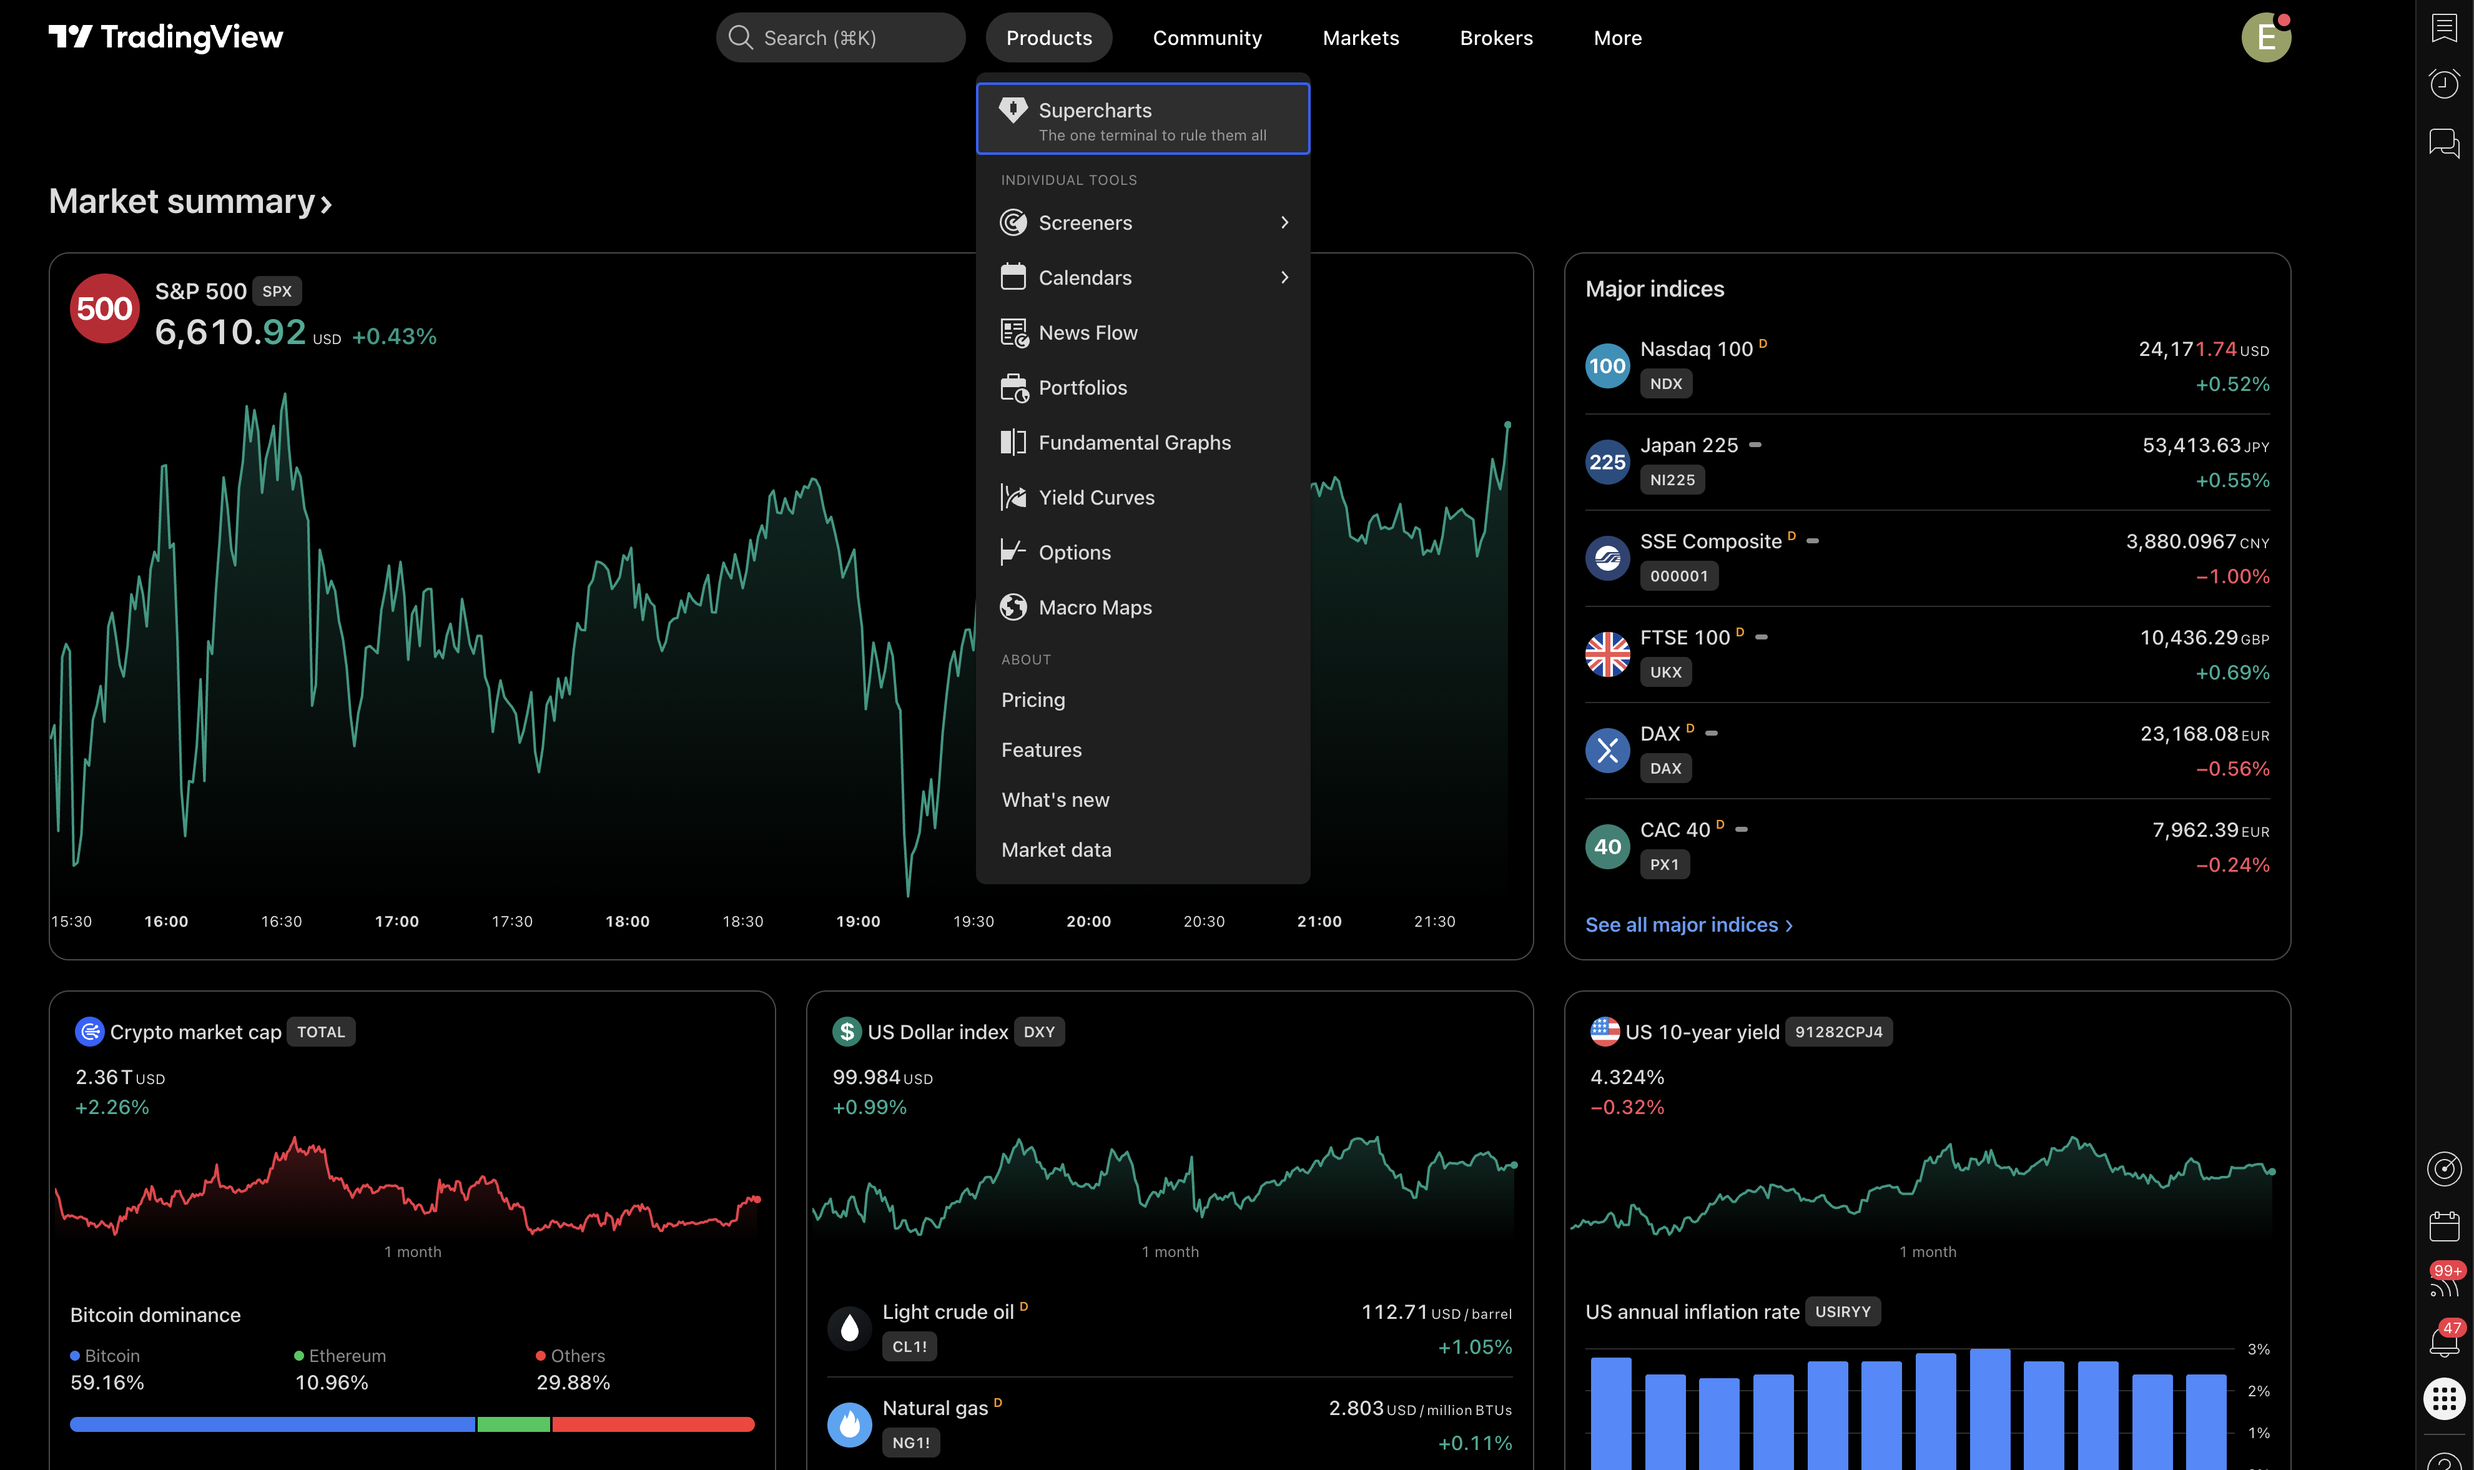
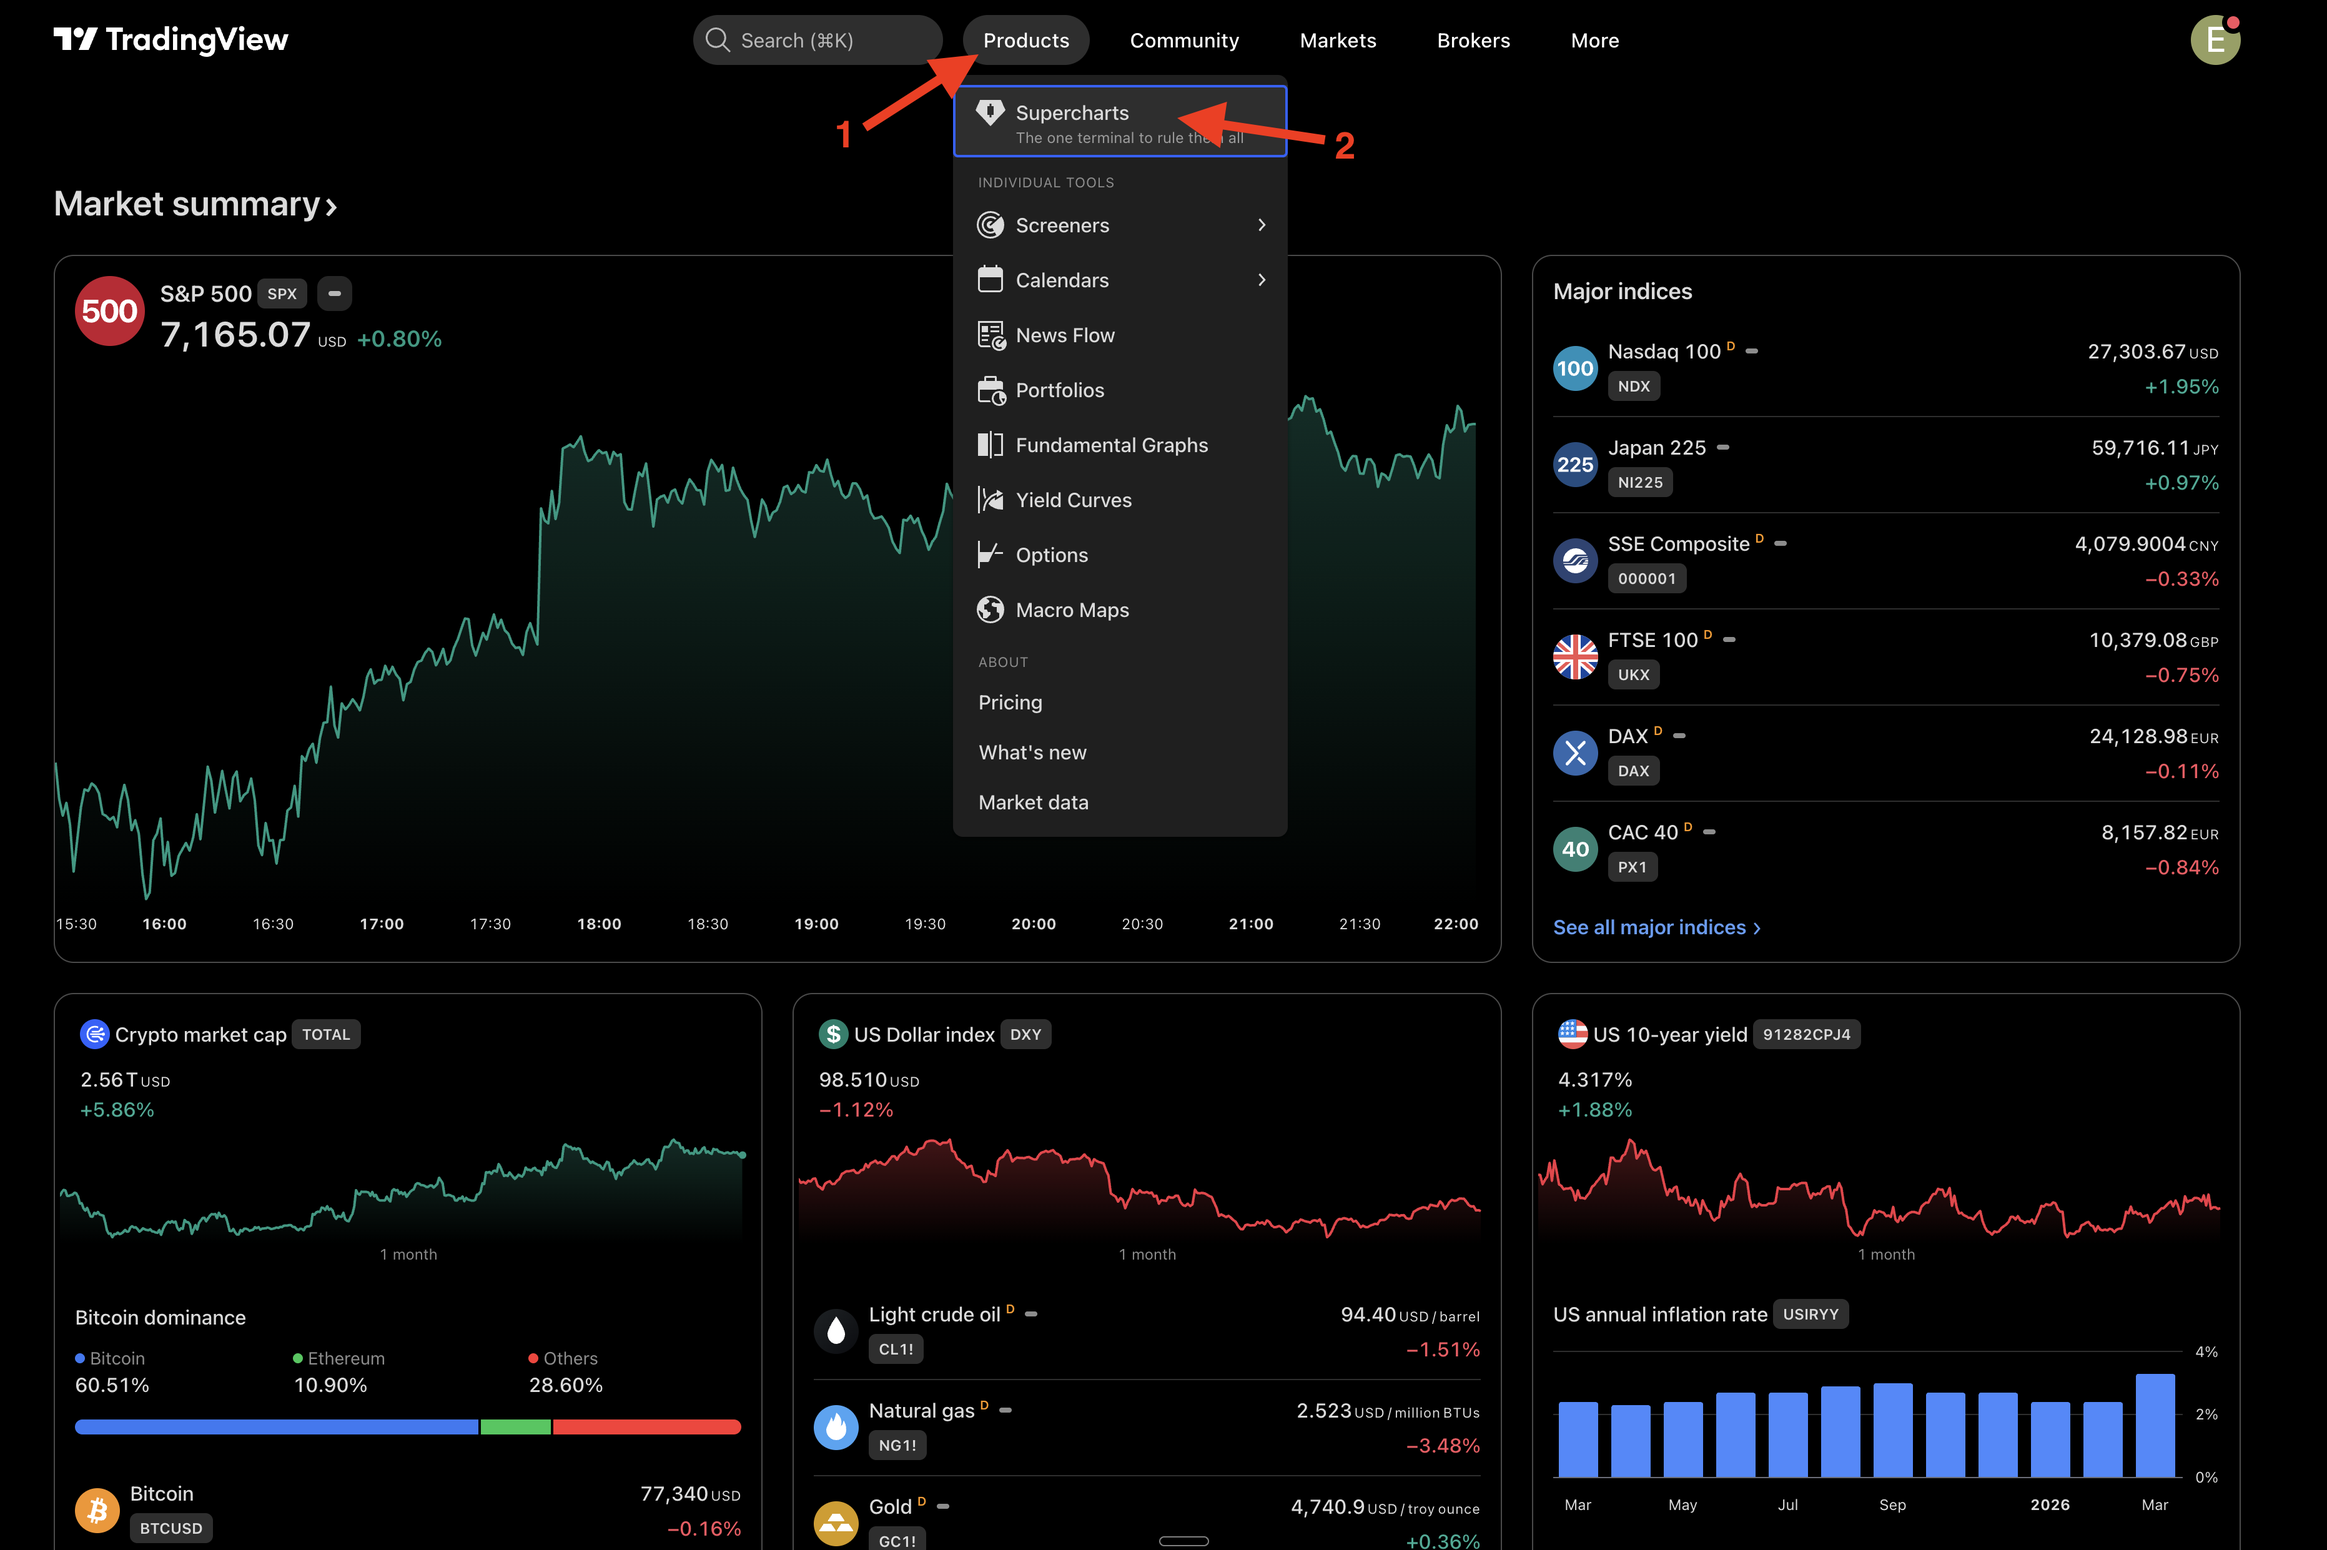
feat: rewrite install guide with screenshots, sub-steps and lightbox
- Replace placeholder install guide with real TradingView walkthrough
  (4 steps: open Supercharts, add indicator, configure, start trading)
  in EN/FR/ES/DE
- Add numbered sub-steps under each screenshot, matching arrow numbers
- Click-to-zoom lightbox on guide step images (mirrors live performance)
- Pro tip on risk management for the final step
- Remove decorative thumbnails above titles on guides list and videos pages
- Drop now-unused chart-placeholder/trendrider images and install icon

diff --git a/components/guides/guide-step-image.tsx b/components/guides/guide-step-image.tsx
@@ -1,0 +1,79 @@
+"use client";
+
+import Image from "next/image";
+import { useEffect, useState } from "react";
+
+interface GuideStepImageProps {
+  src: string;
+  alt: string;
+  closeLabel?: string;
+}
+
+export function GuideStepImage({
+  src,
+  alt,
+  closeLabel = "Close (ESC)",
+}: GuideStepImageProps) {
+  const [open, setOpen] = useState(false);
+
+  useEffect(() => {
+    if (!open) return;
+    const onKey = (e: KeyboardEvent) => {
+      if (e.key === "Escape") setOpen(false);
+    };
+    window.addEventListener("keydown", onKey);
+    return () => window.removeEventListener("keydown", onKey);
+  }, [open]);
+
+  return (
+    <>
+      <button
+        type="button"
+        onClick={() => setOpen(true)}
+        className="group block w-full overflow-hidden rounded-xl border border-zinc-800 bg-zinc-950 transition-all hover:border-zinc-600 hover:shadow-lg hover:shadow-blue-500/5"
+        aria-label={alt}
+      >
+        <Image
+          src={src}
+          alt={alt}
+          width={1600}
+          height={900}
+          className="w-full h-auto object-contain transition-transform group-hover:scale-[1.01]"
+        />
+      </button>
+
+      {open && (
+        <div
+          className="fixed inset-0 z-50 flex items-center justify-center bg-black/80 backdrop-blur-sm p-4"
+          onClick={() => setOpen(false)}
+          role="dialog"
+          aria-modal="true"
+          aria-label={alt}
+        >
+          <div className="relative max-w-6xl w-full max-h-[90vh]">
+            <div className="absolute -top-10 left-0 right-0 flex items-center justify-between">
+              <span className="text-sm md:text-base font-medium text-white truncate pr-4">
+                {alt}
+              </span>
+              <button
+                type="button"
+                onClick={() => setOpen(false)}
+                className="text-zinc-400 hover:text-white text-sm shrink-0"
+              >
+                {closeLabel}
+              </button>
+            </div>
+            <Image
+              src={src}
+              alt={alt}
+              width={1920}
+              height={1080}
+              className="rounded-lg w-full h-auto max-h-[85vh] object-contain"
+              priority
+            />
+          </div>
+        </div>
+      )}
+    </>
+  );
+}

diff --git a/components/guides/guide-placeholder-data.ts b/components/guides/guide-placeholder-data.ts
@@ -1,8 +1,9 @@
 export interface PlaceholderStep {
   stepTitle: string;
-  stepContent: string;
+  stepContent?: string;
   stepTip?: string;
   stepImage?: string;
+  subSteps?: string[];
 }
 
 export interface PlaceholderGuide {
@@ -15,9 +16,17 @@ export interface PlaceholderGuide {
   steps: PlaceholderStep[];
 }
 
-export function getPlaceholderGuides(
-  t: (key: string) => string,
-): PlaceholderGuide[] {
+type Translator = (key: string) => string;
+
+function buildSubSteps(
+  t: Translator,
+  baseKey: string,
+  count: number,
+): string[] {
+  return Array.from({ length: count }, (_, i) => t(`${baseKey}.${i}`));
+}
+
+export function getPlaceholderGuides(t: Translator): PlaceholderGuide[] {
   return [
     {
       title: t("placeholder.guide1.title"),
@@ -31,27 +40,25 @@ export function getPlaceholderGuides(
           stepTitle: t("placeholder.guide1.steps.0.title"),
           stepContent: t("placeholder.guide1.steps.0.content"),
           stepImage: "/images/guides/step1-open-tradingview.png",
+          subSteps: buildSubSteps(t, "placeholder.guide1.steps.0.subSteps", 2),
         },
         {
           stepTitle: t("placeholder.guide1.steps.1.title"),
           stepContent: t("placeholder.guide1.steps.1.content"),
           stepImage: "/images/guides/step2-indicators.png",
+          subSteps: buildSubSteps(t, "placeholder.guide1.steps.1.subSteps", 3),
         },
         {
           stepTitle: t("placeholder.guide1.steps.2.title"),
           stepContent: t("placeholder.guide1.steps.2.content"),
+          stepImage: "/images/guides/step3-configure.png",
+          subSteps: buildSubSteps(t, "placeholder.guide1.steps.2.subSteps", 3),
         },
         {
           stepTitle: t("placeholder.guide1.steps.3.title"),
           stepContent: t("placeholder.guide1.steps.3.content"),
-        },
-        {
-          stepTitle: t("placeholder.guide1.steps.4.title"),
-          stepContent: t("placeholder.guide1.steps.4.content"),
-        },
-        {
-          stepTitle: t("placeholder.guide1.steps.5.title"),
-          stepContent: t("placeholder.guide1.steps.5.content"),
+          stepImage: "/images/guides/step4-start-trading.png",
+          stepTip: t("placeholder.guide1.steps.3.tip"),
         },
       ],
     },

diff --git a/components/guides/guide-step-card.tsx b/components/guides/guide-step-card.tsx
@@ -1,11 +1,12 @@
-import Image from "next/image";
+import { GuideStepImage } from "./guide-step-image";
 
 interface GuideStepCardProps {
   stepNumber: number;
   title: string;
-  content: string;
+  content?: string;
   imageUrl?: string | null;
   imageAlt?: string;
+  subSteps?: string[];
   tip?: string | null;
   tipLabel: string;
 }
@@ -16,6 +17,7 @@ export function GuideStepCard({
   content,
   imageUrl,
   imageAlt,
+  subSteps,
   tip,
   tipLabel,
 }: GuideStepCardProps) {
@@ -32,23 +34,31 @@ export function GuideStepCard({
           <h3 className="font-semibold text-white">{title}</h3>
 
           {/* Content */}
-          <p className="leading-relaxed text-zinc-300">{content}</p>
+          {content && (
+            <p className="leading-relaxed text-zinc-300">{content}</p>
+          )}
 
           {/* Image */}
           {imageUrl ? (
-            <div className="overflow-hidden rounded-xl border border-zinc-800">
-              <Image
-                src={imageUrl}
-                alt={imageAlt || title}
-                width={800}
-                height={400}
-                className="w-full object-cover"
-              />
-            </div>
+            <GuideStepImage src={imageUrl} alt={imageAlt || title} />
           ) : (
             <div className="flex h-[200px] items-center justify-center rounded-xl bg-zinc-800 text-sm text-zinc-600">
               Screenshot placeholder
             </div>
+          )}
+
+          {/* Sub-steps (numbered, matching arrow numbers in the screenshot) */}
+          {subSteps && subSteps.length > 0 && (
+            <ol className="space-y-3">
+              {subSteps.map((sub, idx) => (
+                <li key={idx} className="flex items-start gap-3">
+                  <span className="flex h-6 w-6 shrink-0 items-center justify-center rounded-full bg-blue-500/15 text-xs font-semibold text-blue-400">
+                    {idx + 1}
+                  </span>
+                  <span className="leading-relaxed text-zinc-300">{sub}</span>
+                </li>
+              ))}
+            </ol>
           )}
 
           {/* Tip */}

diff --git a/components/guides/guide-card.tsx b/components/guides/guide-card.tsx
@@ -1,6 +1,5 @@
 import Link from "next/link";
-import Image from "next/image";
-import { BookOpen, ArrowRight } from "lucide-react";
+import { ArrowRight } from "lucide-react";
 
 interface GuideCardProps {
   title: string;
@@ -14,7 +13,6 @@ interface GuideCardProps {
   readGuideLabel: string;
   stepsLabel: string;
   minLabel: string;
-  customIcon?: React.ReactNode;
 }
 
 export function GuideCard({
@@ -29,7 +27,6 @@ export function GuideCard({
   readGuideLabel,
   stepsLabel,
   minLabel,
-  customIcon,
 }: GuideCardProps) {
   const difficultyColor =
     difficulty === "beginner"
@@ -40,25 +37,6 @@ export function GuideCard({
 
   return (
     <div className="flex flex-col overflow-hidden rounded-xl border border-zinc-800 bg-zinc-900 transition-colors hover:border-zinc-700">
-      {/* Icon header */}
-      <div className="relative flex h-32 items-center justify-center overflow-hidden bg-zinc-800/50">
-        {customIcon ? (
-          customIcon
-        ) : (
-          <>
-            <Image
-              src="/images/chart-placeholder.png"
-              alt=""
-              fill
-              sizes="(min-width: 1024px) 33vw, (min-width: 768px) 50vw, 100vw"
-              className="object-cover"
-            />
-            <div className="absolute inset-0 bg-black/50" />
-            <BookOpen className="relative h-10 w-10 text-white/90" />
-          </>
-        )}
-      </div>
-
       {/* Content */}
       <div className="flex flex-1 flex-col p-5">
         {/* Badges */}

diff --git a/components/videos/video-card.tsx b/components/videos/video-card.tsx
@@ -1,6 +1,3 @@
-import Image from "next/image";
-import { PlayCircle } from "lucide-react";
-
 interface VideoCardProps {
   title: string;
   description: string;
@@ -18,25 +15,11 @@ export function VideoCard({
 }: VideoCardProps) {
   return (
     <div className="overflow-hidden rounded-xl border border-zinc-800 bg-zinc-900">
-      {/* Thumbnail placeholder */}
-      <div className="relative flex h-48 items-center justify-center overflow-hidden bg-zinc-800">
-        <Image
-          src="/images/chart-placeholder.png"
-          alt=""
-          fill
-          sizes="(min-width: 1024px) 33vw, (min-width: 768px) 50vw, 100vw"
-          className="object-cover"
-        />
-        <div className="absolute inset-0 bg-black/40" />
-        <PlayCircle className="relative h-12 w-12 text-white/90" />
-      </div>
-
-      {/* Content */}
-      <div className="p-4">
-        <span className="rounded-full bg-blue-500/10 px-2 py-0.5 text-xs text-blue-400">
+      <div className="p-5">
+        <span className="rounded-full bg-blue-500/10 px-2.5 py-0.5 text-xs text-blue-400">
           {categoryLabel}
         </span>
-        <h3 className="mt-2 font-semibold text-white">{title}</h3>
+        <h3 className="mt-3 font-semibold text-white">{title}</h3>
         <p className="mt-1 text-sm text-zinc-400">{description}</p>
         <a
           href={youtubeUrl}

diff --git a/components/guides/guide-detail.tsx b/components/guides/guide-detail.tsx
@@ -55,6 +55,7 @@ async function fetchGuide(slug: string): Promise<PlaceholderGuide | null> {
         stepContent: s.stepContent,
         stepTip: s.stepTip || undefined,
         stepImage: s.stepImage?.url || undefined,
+        subSteps: undefined,
       })),
     };
   } catch {
@@ -120,6 +121,7 @@ export async function GuideDetail({ slug }: GuideDetailProps) {
             title={step.stepTitle}
             content={step.stepContent}
             imageUrl={step.stepImage}
+            subSteps={step.subSteps}
             tip={step.stepTip}
             tipLabel={t("tip")}
           />

diff --git a/components/guides/guide-list.tsx b/components/guides/guide-list.tsx
@@ -1,6 +1,5 @@
 import { getTranslations } from "next-intl/server";
 import { GuideCard } from "./guide-card";
-import { GuideInstallIcon } from "./guide-install-icon";
 import {
   getPlaceholderGuides,
   type PlaceholderGuide,
@@ -71,9 +70,6 @@ export async function GuideList() {
           readGuideLabel={t("readGuide")}
           stepsLabel={t("steps")}
           minLabel={t("minutes")}
-          customIcon={
-            guide.category === "installation" ? <GuideInstallIcon /> : undefined
-          }
         />
       ))}
     </div>

diff --git a/.project/roadmap.md b/.project/roadmap.md
@@ -8,7 +8,7 @@
 - [x] Collections contenu : Video, Testimonial, TradeScreenshot, PromoCode (avec champs alignes Stripe Coupons)
 - [x] Seed admin (admin@admin.com / password) via hook onInit
 - [x] Layout principal : navbar (logo, liens, CTA "Start Free Trial") + footer (4 colonnes, disclaimer legal, copyright)
-- [ ] Creation Discord communautaire : 3 salons (annonces, discussion, support) + lien d'invitation permanent _(a faire manuellement)_
+- [~] Creation Discord communautaire : reporte (pas prioritaire au lancement)
 
 ## Round 2 — Pages publiques — DONE
 
